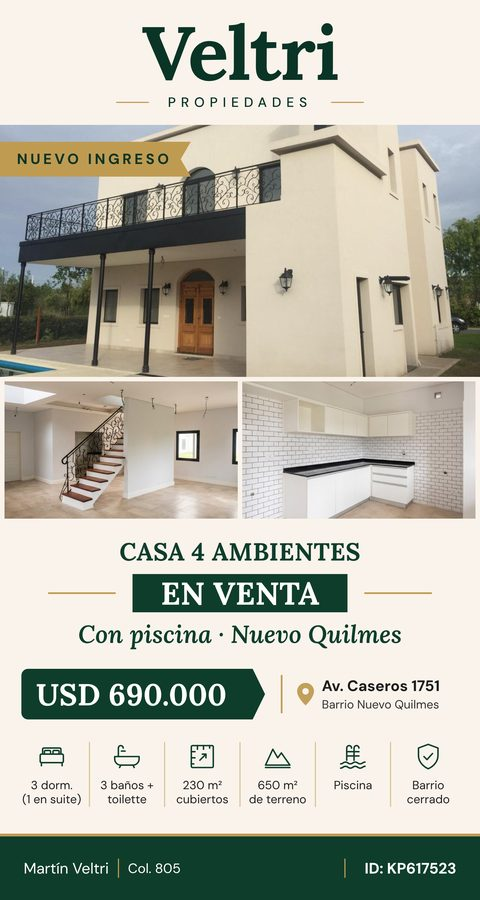
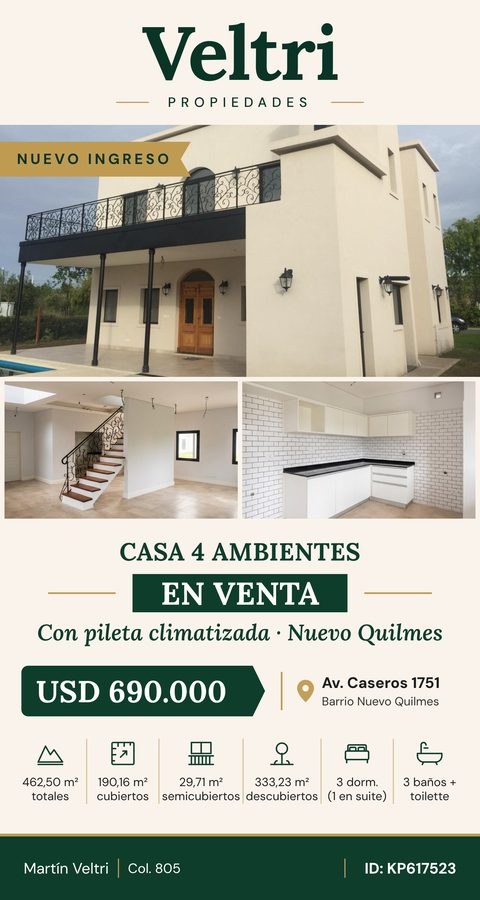
KP617504 y KP617523: superficies según plano y pileta climatizada
Claude-Session: https://claude.ai/code/session_01QVynf5azA7Q9ZAkayFiAjJ

Changed region(s): [[0.0312, 0.6844, 0.9375, 0.9022], [0.5312, 0.7467, 0.5625, 0.7778]]

diff --git a/index.html b/index.html
@@ -392,7 +392,7 @@ body.client .asisw{display:none}
     <a class="btn b4" id="fio" target="_blank" rel="noopener"><svg class="wa" viewBox="0 0 24 24"><path d="M12 2a10 10 0 0 0-8.6 15.1L2 22l5-1.3A10 10 0 1 0 12 2zm0 18.2a8.2 8.2 0 0 1-4.2-1.2l-.3-.2-3 .8.8-2.9-.2-.3A8.2 8.2 0 1 1 12 20.2zm4.5-6.1c-.2-.1-1.5-.7-1.7-.8-.2-.1-.4-.1-.6.1l-.8 1c-.1.2-.3.2-.5.1a6.7 6.7 0 0 1-3.3-2.9c-.2-.4.2-.4.7-1.3.1-.2 0-.3 0-.4l-.8-1.8c-.2-.5-.4-.4-.6-.4h-.5a1 1 0 0 0-.7.3 3 3 0 0 0-.9 2.2 5.2 5.2 0 0 0 1.1 2.8 11.9 11.9 0 0 0 4.6 4c1.7.7 2.4.8 3.2.7a2.8 2.8 0 0 0 1.8-1.3 2.3 2.3 0 0 0 .2-1.3c-.1-.1-.3-.2-.5-.3z"/></svg>Pedirle ajuste a Fiore</a>
   </div></div></div>
 <script>
-const qv=x=>x.v?'?v='+x.v:'';const D=[{"id": "KP609318", "titulo": "Departamento 2 Ambientes", "op": "Venta", "tipo": "Departamento", "precio": "USD 93.000", "dir": "Patricios 400, Bernal", "zona": "Torre B2 · Quilmes", "f": ["9.º piso", "1 dormitorio", "1 baño completo"], "n": 609318}, {"id": "KP606274", "titulo": "Triplex 3 Ambientes", "op": "Venta", "tipo": "Departamento", "precio": "USD 184.900", "dir": "Don Bosco 473, Bernal", "zona": "Barrio cerrado · Quilmes", "f": ["2 dormitorios", "2 baños completos", "1 toilette"], "n": 606274}, {"id": "KP606250", "titulo": "Casa 3 Ambientes", "op": "Venta", "tipo": "Casa", "precio": "USD 134.900", "dir": "Calle 19 al 5000", "zona": "Berazategui", "f": ["2 dormitorios", "1 baño completo", "130 m² cubiertos"], "n": 606250}, {"id": "KP605349", "titulo": "PH 3 Ambientes", "op": "Venta", "tipo": "PH", "precio": "USD 85.000", "dir": "Edmundo Fierro al 200", "zona": "Bernal Este · Quilmes", "f": ["2 dormitorios", "1 baño completo", "96 m² totales"], "n": 605349}, {"id": "KP599778", "titulo": "Galpón Industrial a Estrenar", "op": "Alquiler", "tipo": "Comercial", "precio": "USD 11.000", "dir": "Florencio Varela", "zona": "Parque Industrial PITEC 2", "f": ["1.882 m² cubiertos", "2.847 m² de terreno", "12 m altura libre"], "n": 599778}, {"id": "KP587604", "titulo": "Casa 4 Ambientes", "op": "Venta", "tipo": "Casa", "precio": "USD 95.000", "dir": "Viejo Bueno al 1400", "zona": "Bernal Oeste · Quilmes", "f": ["3 dormitorios", "1 baño completo", "164 m² totales"], "n": 587604}, {"id": "KP581763", "titulo": "PH 3 Ambientes", "op": "Venta", "tipo": "PH", "precio": "USD 93.000", "dir": "Rep. del Líbano al 1100", "zona": "Quilmes", "f": ["2 dormitorios", "1 baño completo", "122 m² cubiertos"], "n": 581763}, {"id": "KP574705", "titulo": "Casa 5 Ambientes", "op": "Venta", "tipo": "Casa", "precio": "USD 149.000", "dir": "Vta. de Obligado 555", "zona": "Bernal Este · Quilmes", "f": ["4 dormitorios", "2 baños", "183 m² totales"], "n": 574705}, {"id": "KP574696", "titulo": "Galpón Industrial a Estrenar", "op": "Venta", "tipo": "Comercial", "precio": "USD 1.800.000", "dir": "Florencio Varela", "zona": "Parque Industrial PITEC 2", "f": ["1.882 m² cubiertos", "2.847 m² de terreno", "12 m altura libre"], "n": 574696}, {"id": "KP574687", "titulo": "Oficina de 75 m²", "op": "Alquiler", "tipo": "Comercial", "precio": "USD 1.000", "dir": "Av. Caseros 1750", "zona": "Don Bosco · Quilmes", "f": ["2.º piso", "75 m² cubiertos", "3 espacios de trabajo"], "n": 574687}, {"id": "KP574442", "titulo": "Casa 4 Ambientes", "op": "Venta", "tipo": "Casa", "precio": "USD 262.000", "dir": "Dorrego 112", "zona": "Bernal · Quilmes", "f": ["3 dormitorios", "2 baños", "135 m² cubiertos"], "n": 574442}, {"id": "KP574362", "titulo": "Casa 3 Ambientes", "op": "Venta", "tipo": "Casa", "precio": "USD 139.000", "dir": "Urquiza 328", "zona": "Quilmes", "f": ["2 dormitorios", "1 baño completo", "75 m² cubiertos"], "n": 574362}, {"id": "KP574361", "titulo": "Galpón de 259 m²", "op": "Venta", "tipo": "Comercial", "precio": "USD 169.000", "dir": "Calle Carabelas", "zona": "Bernal · Quilmes", "f": ["259 m² cubiertos", "Doble frente", "Acceso para camiones"], "n": 574361}, {"id": "KP574360", "titulo": "6 Locales Comerciales en Bloque", "op": "Venta", "tipo": "Comercial", "precio": "USD 239.000", "dir": "Av. Gral. Mosconi 2270", "zona": "Esq. Ayolas · Quilmes Oeste", "f": ["6 locales independientes", "242 m² cubiertos", "Ubicación en esquina"], "n": 574360}, {"id": "KP574330", "titulo": "Casa 2 Ambientes", "op": "Venta", "tipo": "Casa", "precio": "USD 115.000", "dir": "9 de Julio 838", "zona": "Bernal Oeste · Quilmes", "f": ["1 dormitorio", "1 baño completo", "125 m² cubiertos"], "n": 574330}, {"id": "KP574305", "titulo": "Piso de Categoría · 4 Amb.", "op": "Venta", "tipo": "Departamento", "precio": "USD 299.000", "dir": "Moreno 336", "zona": "Quilmes Centro", "f": ["9.º piso", "3 dorm. (1 en suite)", "2 baños + toilette"], "n": 574305}, {"id": "KP574304", "titulo": "Casa 3 Ambientes", "op": "Alquiler", "tipo": "Casa", "precio": "USD 900", "dir": "Luis María Campos 529", "zona": "Bernal Oeste · Quilmes", "f": ["2 dormitorios", "1 baño completo", "Balcón al frente"], "n": 574304}, {"id": "KP574296", "titulo": "PH 3 Ambientes", "op": "Venta", "tipo": "PH", "precio": "USD 115.000", "dir": "Don Bosco 18", "zona": "Bernal · Quilmes", "f": ["2 dormitorios", "1 baño + toilette", "86 m² totales"], "n": 574296}, {"id": "KP574279", "titulo": "Departamento 3 Ambientes", "op": "Venta", "tipo": "Departamento", "precio": "USD 169.900", "dir": "Av. San Martín 364", "zona": "Bernal Centro · Quilmes", "f": ["2 dormitorios", "2 baños", "86 m² totales"], "n": 574279}, {"id": "KP574278", "titulo": "Departamento 2 Ambientes", "op": "Venta", "tipo": "Departamento", "precio": "USD 144.500", "dir": "25 de Mayo 50", "zona": "Bernal · Quilmes", "f": ["1 dormitorio", "48 m² totales", "Balcón al frente"], "n": 574278}, {"id": "KP574277", "titulo": "Piso de Categoría · 5 Amb.", "op": "Venta", "tipo": "Departamento", "precio": "USD 319.900", "dir": "Alem 420", "zona": "Quilmes Centro", "f": ["4 dorm. (1 en suite)", "4 baños + toilette", "190 m² cubiertos"], "n": 574277}, {"id": "KP574237", "titulo": "Casa / Lote R2", "op": "Venta", "tipo": "Casa", "precio": "USD 149.000", "dir": "Alvear 216", "zona": "Quilmes", "f": ["281 m² de terreno", "143 m² cubiertos", "Zonificación R2"], "n": 574237}, {"id": "KP574229", "titulo": "Casa 4 Ambientes", "op": "Venta", "tipo": "Casa", "precio": "USD 249.000", "dir": "Juan B. Justo 443", "zona": "Don Bosco · Quilmes", "f": ["3 dormitorios", "2 baños + toilette", "190 m² cubiertos"], "n": 574229}, {"id": "KP574217", "titulo": "Casa 3 Ambientes", "op": "Venta", "tipo": "Casa", "precio": "USD 129.000", "dir": "Saavedra 362", "zona": "Quilmes", "f": ["2 dormitorios", "1 baño completo", "90 m² cubiertos"], "n": 574217}, {"id": "KP573824", "titulo": "Departamento 2 Ambientes", "op": "Venta", "tipo": "Departamento", "precio": "USD 119.000", "dir": "Av. San Martín 364", "zona": "Bernal Centro · Quilmes", "f": ["1 dormitorio", "1 baño", "80 m² totales"], "n": 573824}, {"id": "KP573709", "titulo": "Casa 5 Ambientes", "op": "Alquiler", "tipo": "Casa", "precio": "USD 5.800", "dir": "Av. Caseros 1751", "zona": "Nuevo Quilmes", "f": ["4 dorm. (1 en suite)", "3 baños + toilette", "350 m² cubiertos"], "n": 573709}, {"id": "KP572830", "titulo": "Casa 4 Ambientes", "op": "Venta", "tipo": "Casa", "precio": "USD 320.000", "dir": "Almirante Brown 933", "zona": "Quilmes", "f": ["3 dormitorios", "2 baños", "200 m² cubiertos"], "n": 572830}, {"id": "KP572792", "titulo": "Departamento 3 Ambientes", "op": "Venta", "tipo": "Departamento", "precio": "USD 199.000", "dir": "25 de Mayo 62", "zona": "Bernal Centro · Quilmes", "f": ["2 dormitorios", "1 baño + toilette", "80 m² totales"], "n": 572792}, {"id": "KP572756", "titulo": "Departamento 3 Ambientes", "op": "Venta", "tipo": "Departamento", "precio": "USD 180.000", "dir": "Av. H. Yrigoyen 933", "zona": "6.º piso · Quilmes", "f": ["6.º piso", "2 dormitorios", "1 baño + toilette"], "n": 572756}, {"id": "KP572659", "titulo": "Galpón / Local / Depósito", "op": "Venta", "tipo": "Comercial", "precio": "USD 180.000", "dir": "E. Fierro al 200", "zona": "Bernal · Quilmes", "f": ["384 m² cubiertos", "486 m² totales", "Patio descubierto"], "n": 572659}, {"id": "KP572606", "titulo": "Departamento 3 Ambientes", "op": "Venta", "tipo": "Departamento", "precio": "USD 239.000", "dir": "Caseros y Carabelas", "zona": "Don Bosco · Quilmes", "f": ["2 dormitorios", "65 m² cubiertos", "Patio de 61 m²"], "n": 572606}, {"id": "KP572590", "titulo": "Departamento 3 Ambientes", "op": "Venta", "tipo": "Departamento", "precio": "USD 159.000", "dir": "Av. San Martín 364", "zona": "Bernal Centro · Quilmes", "f": ["7.º piso", "2 dormitorios", "2 baños"], "n": 572590}, {"id": "KP572501", "titulo": "Casa 5 Ambientes", "op": "Venta", "tipo": "Casa", "precio": "USD 1.350.000", "dir": "Av. Caseros 1751", "zona": "Nuevo Quilmes", "f": ["4 dorm. (1 en suite)", "3 baños + toilette", "350 m² cubiertos"], "n": 572501}, {"id": "KP572159", "titulo": "Casa 6 Ambientes", "op": "Venta", "tipo": "Casa", "precio": "USD 790.000", "dir": "Av. Caseros 1751", "zona": "Nuevo Quilmes", "f": ["4 dormitorios", "4 baños", "300 m² cubiertos"], "n": 572159}, {"id": "KP572114", "titulo": "Departamento 3 Ambientes", "op": "Venta", "tipo": "Departamento", "precio": "USD 310.000", "dir": "Av. Caseros 1751", "zona": "Nuevo Quilmes", "f": ["2 dormitorios", "2 baños", "84 m² totales"], "n": 572114}, {"id": "KP572108", "titulo": "Departamento 3 Ambientes", "op": "Venta", "tipo": "Departamento", "precio": "USD 205.000", "dir": "Don Bosco 31", "zona": "Bernal Centro · Quilmes", "f": ["2 dormitorios", "1 baño + toilette", "80 m² cubiertos"], "n": 572108}, {"id": "KP571775", "titulo": "Departamento 3 Ambientes", "op": "Venta", "tipo": "Departamento", "precio": "USD 174.900", "dir": "Av. San Martín 364", "zona": "Bernal · Quilmes", "f": ["2 dormitorios", "1 baño", "81 m² totales"], "n": 571775}, {"id": "KP617504", "titulo": "Casa 4 Ambientes", "op": "Alquiler", "tipo": "Casa", "precio": "USD 3.500", "dir": "Av. Caseros 1751", "zona": "Barrio Nuevo Quilmes", "f": ["3 dorm. (1 en suite)", "3 baños + toilette", "230 m² cubiertos"], "n": 617504, "v": 2}, {"id": "KP617523", "titulo": "Casa 4 Ambientes", "op": "Venta", "tipo": "Casa", "precio": "USD 690.000", "dir": "Av. Caseros 1751", "zona": "Barrio Nuevo Quilmes", "f": ["3 dorm. (1 en suite)", "3 baños + toilette", "230 m² cubiertos"], "n": 617523, "v": 2}];const $=s=>document.querySelector(s);
+const qv=x=>x.v?'?v='+x.v:'';const D=[{"id": "KP609318", "titulo": "Departamento 2 Ambientes", "op": "Venta", "tipo": "Departamento", "precio": "USD 93.000", "dir": "Patricios 400, Bernal", "zona": "Torre B2 · Quilmes", "f": ["9.º piso", "1 dormitorio", "1 baño completo"], "n": 609318}, {"id": "KP606274", "titulo": "Triplex 3 Ambientes", "op": "Venta", "tipo": "Departamento", "precio": "USD 184.900", "dir": "Don Bosco 473, Bernal", "zona": "Barrio cerrado · Quilmes", "f": ["2 dormitorios", "2 baños completos", "1 toilette"], "n": 606274}, {"id": "KP606250", "titulo": "Casa 3 Ambientes", "op": "Venta", "tipo": "Casa", "precio": "USD 134.900", "dir": "Calle 19 al 5000", "zona": "Berazategui", "f": ["2 dormitorios", "1 baño completo", "130 m² cubiertos"], "n": 606250}, {"id": "KP605349", "titulo": "PH 3 Ambientes", "op": "Venta", "tipo": "PH", "precio": "USD 85.000", "dir": "Edmundo Fierro al 200", "zona": "Bernal Este · Quilmes", "f": ["2 dormitorios", "1 baño completo", "96 m² totales"], "n": 605349}, {"id": "KP599778", "titulo": "Galpón Industrial a Estrenar", "op": "Alquiler", "tipo": "Comercial", "precio": "USD 11.000", "dir": "Florencio Varela", "zona": "Parque Industrial PITEC 2", "f": ["1.882 m² cubiertos", "2.847 m² de terreno", "12 m altura libre"], "n": 599778}, {"id": "KP587604", "titulo": "Casa 4 Ambientes", "op": "Venta", "tipo": "Casa", "precio": "USD 95.000", "dir": "Viejo Bueno al 1400", "zona": "Bernal Oeste · Quilmes", "f": ["3 dormitorios", "1 baño completo", "164 m² totales"], "n": 587604}, {"id": "KP581763", "titulo": "PH 3 Ambientes", "op": "Venta", "tipo": "PH", "precio": "USD 93.000", "dir": "Rep. del Líbano al 1100", "zona": "Quilmes", "f": ["2 dormitorios", "1 baño completo", "122 m² cubiertos"], "n": 581763}, {"id": "KP574705", "titulo": "Casa 5 Ambientes", "op": "Venta", "tipo": "Casa", "precio": "USD 149.000", "dir": "Vta. de Obligado 555", "zona": "Bernal Este · Quilmes", "f": ["4 dormitorios", "2 baños", "183 m² totales"], "n": 574705}, {"id": "KP574696", "titulo": "Galpón Industrial a Estrenar", "op": "Venta", "tipo": "Comercial", "precio": "USD 1.800.000", "dir": "Florencio Varela", "zona": "Parque Industrial PITEC 2", "f": ["1.882 m² cubiertos", "2.847 m² de terreno", "12 m altura libre"], "n": 574696}, {"id": "KP574687", "titulo": "Oficina de 75 m²", "op": "Alquiler", "tipo": "Comercial", "precio": "USD 1.000", "dir": "Av. Caseros 1750", "zona": "Don Bosco · Quilmes", "f": ["2.º piso", "75 m² cubiertos", "3 espacios de trabajo"], "n": 574687}, {"id": "KP574442", "titulo": "Casa 4 Ambientes", "op": "Venta", "tipo": "Casa", "precio": "USD 262.000", "dir": "Dorrego 112", "zona": "Bernal · Quilmes", "f": ["3 dormitorios", "2 baños", "135 m² cubiertos"], "n": 574442}, {"id": "KP574362", "titulo": "Casa 3 Ambientes", "op": "Venta", "tipo": "Casa", "precio": "USD 139.000", "dir": "Urquiza 328", "zona": "Quilmes", "f": ["2 dormitorios", "1 baño completo", "75 m² cubiertos"], "n": 574362}, {"id": "KP574361", "titulo": "Galpón de 259 m²", "op": "Venta", "tipo": "Comercial", "precio": "USD 169.000", "dir": "Calle Carabelas", "zona": "Bernal · Quilmes", "f": ["259 m² cubiertos", "Doble frente", "Acceso para camiones"], "n": 574361}, {"id": "KP574360", "titulo": "6 Locales Comerciales en Bloque", "op": "Venta", "tipo": "Comercial", "precio": "USD 239.000", "dir": "Av. Gral. Mosconi 2270", "zona": "Esq. Ayolas · Quilmes Oeste", "f": ["6 locales independientes", "242 m² cubiertos", "Ubicación en esquina"], "n": 574360}, {"id": "KP574330", "titulo": "Casa 2 Ambientes", "op": "Venta", "tipo": "Casa", "precio": "USD 115.000", "dir": "9 de Julio 838", "zona": "Bernal Oeste · Quilmes", "f": ["1 dormitorio", "1 baño completo", "125 m² cubiertos"], "n": 574330}, {"id": "KP574305", "titulo": "Piso de Categoría · 4 Amb.", "op": "Venta", "tipo": "Departamento", "precio": "USD 299.000", "dir": "Moreno 336", "zona": "Quilmes Centro", "f": ["9.º piso", "3 dorm. (1 en suite)", "2 baños + toilette"], "n": 574305}, {"id": "KP574304", "titulo": "Casa 3 Ambientes", "op": "Alquiler", "tipo": "Casa", "precio": "USD 900", "dir": "Luis María Campos 529", "zona": "Bernal Oeste · Quilmes", "f": ["2 dormitorios", "1 baño completo", "Balcón al frente"], "n": 574304}, {"id": "KP574296", "titulo": "PH 3 Ambientes", "op": "Venta", "tipo": "PH", "precio": "USD 115.000", "dir": "Don Bosco 18", "zona": "Bernal · Quilmes", "f": ["2 dormitorios", "1 baño + toilette", "86 m² totales"], "n": 574296}, {"id": "KP574279", "titulo": "Departamento 3 Ambientes", "op": "Venta", "tipo": "Departamento", "precio": "USD 169.900", "dir": "Av. San Martín 364", "zona": "Bernal Centro · Quilmes", "f": ["2 dormitorios", "2 baños", "86 m² totales"], "n": 574279}, {"id": "KP574278", "titulo": "Departamento 2 Ambientes", "op": "Venta", "tipo": "Departamento", "precio": "USD 144.500", "dir": "25 de Mayo 50", "zona": "Bernal · Quilmes", "f": ["1 dormitorio", "48 m² totales", "Balcón al frente"], "n": 574278}, {"id": "KP574277", "titulo": "Piso de Categoría · 5 Amb.", "op": "Venta", "tipo": "Departamento", "precio": "USD 319.900", "dir": "Alem 420", "zona": "Quilmes Centro", "f": ["4 dorm. (1 en suite)", "4 baños + toilette", "190 m² cubiertos"], "n": 574277}, {"id": "KP574237", "titulo": "Casa / Lote R2", "op": "Venta", "tipo": "Casa", "precio": "USD 149.000", "dir": "Alvear 216", "zona": "Quilmes", "f": ["281 m² de terreno", "143 m² cubiertos", "Zonificación R2"], "n": 574237}, {"id": "KP574229", "titulo": "Casa 4 Ambientes", "op": "Venta", "tipo": "Casa", "precio": "USD 249.000", "dir": "Juan B. Justo 443", "zona": "Don Bosco · Quilmes", "f": ["3 dormitorios", "2 baños + toilette", "190 m² cubiertos"], "n": 574229}, {"id": "KP574217", "titulo": "Casa 3 Ambientes", "op": "Venta", "tipo": "Casa", "precio": "USD 129.000", "dir": "Saavedra 362", "zona": "Quilmes", "f": ["2 dormitorios", "1 baño completo", "90 m² cubiertos"], "n": 574217}, {"id": "KP573824", "titulo": "Departamento 2 Ambientes", "op": "Venta", "tipo": "Departamento", "precio": "USD 119.000", "dir": "Av. San Martín 364", "zona": "Bernal Centro · Quilmes", "f": ["1 dormitorio", "1 baño", "80 m² totales"], "n": 573824}, {"id": "KP573709", "titulo": "Casa 5 Ambientes", "op": "Alquiler", "tipo": "Casa", "precio": "USD 5.800", "dir": "Av. Caseros 1751", "zona": "Nuevo Quilmes", "f": ["4 dorm. (1 en suite)", "3 baños + toilette", "350 m² cubiertos"], "n": 573709}, {"id": "KP572830", "titulo": "Casa 4 Ambientes", "op": "Venta", "tipo": "Casa", "precio": "USD 320.000", "dir": "Almirante Brown 933", "zona": "Quilmes", "f": ["3 dormitorios", "2 baños", "200 m² cubiertos"], "n": 572830}, {"id": "KP572792", "titulo": "Departamento 3 Ambientes", "op": "Venta", "tipo": "Departamento", "precio": "USD 199.000", "dir": "25 de Mayo 62", "zona": "Bernal Centro · Quilmes", "f": ["2 dormitorios", "1 baño + toilette", "80 m² totales"], "n": 572792}, {"id": "KP572756", "titulo": "Departamento 3 Ambientes", "op": "Venta", "tipo": "Departamento", "precio": "USD 180.000", "dir": "Av. H. Yrigoyen 933", "zona": "6.º piso · Quilmes", "f": ["6.º piso", "2 dormitorios", "1 baño + toilette"], "n": 572756}, {"id": "KP572659", "titulo": "Galpón / Local / Depósito", "op": "Venta", "tipo": "Comercial", "precio": "USD 180.000", "dir": "E. Fierro al 200", "zona": "Bernal · Quilmes", "f": ["384 m² cubiertos", "486 m² totales", "Patio descubierto"], "n": 572659}, {"id": "KP572606", "titulo": "Departamento 3 Ambientes", "op": "Venta", "tipo": "Departamento", "precio": "USD 239.000", "dir": "Caseros y Carabelas", "zona": "Don Bosco · Quilmes", "f": ["2 dormitorios", "65 m² cubiertos", "Patio de 61 m²"], "n": 572606}, {"id": "KP572590", "titulo": "Departamento 3 Ambientes", "op": "Venta", "tipo": "Departamento", "precio": "USD 159.000", "dir": "Av. San Martín 364", "zona": "Bernal Centro · Quilmes", "f": ["7.º piso", "2 dormitorios", "2 baños"], "n": 572590}, {"id": "KP572501", "titulo": "Casa 5 Ambientes", "op": "Venta", "tipo": "Casa", "precio": "USD 1.350.000", "dir": "Av. Caseros 1751", "zona": "Nuevo Quilmes", "f": ["4 dorm. (1 en suite)", "3 baños + toilette", "350 m² cubiertos"], "n": 572501}, {"id": "KP572159", "titulo": "Casa 6 Ambientes", "op": "Venta", "tipo": "Casa", "precio": "USD 790.000", "dir": "Av. Caseros 1751", "zona": "Nuevo Quilmes", "f": ["4 dormitorios", "4 baños", "300 m² cubiertos"], "n": 572159}, {"id": "KP572114", "titulo": "Departamento 3 Ambientes", "op": "Venta", "tipo": "Departamento", "precio": "USD 310.000", "dir": "Av. Caseros 1751", "zona": "Nuevo Quilmes", "f": ["2 dormitorios", "2 baños", "84 m² totales"], "n": 572114}, {"id": "KP572108", "titulo": "Departamento 3 Ambientes", "op": "Venta", "tipo": "Departamento", "precio": "USD 205.000", "dir": "Don Bosco 31", "zona": "Bernal Centro · Quilmes", "f": ["2 dormitorios", "1 baño + toilette", "80 m² cubiertos"], "n": 572108}, {"id": "KP571775", "titulo": "Departamento 3 Ambientes", "op": "Venta", "tipo": "Departamento", "precio": "USD 174.900", "dir": "Av. San Martín 364", "zona": "Bernal · Quilmes", "f": ["2 dormitorios", "1 baño", "81 m² totales"], "n": 571775}, {"id": "KP617504", "titulo": "Casa 4 Ambientes con pileta climatizada", "op": "Alquiler", "tipo": "Casa", "precio": "USD 3.500", "dir": "Av. Caseros 1751", "zona": "Barrio Nuevo Quilmes", "f": ["462,50 m² totales", "190,16 m² cubiertos", "3 dorm. (1 en suite)"], "n": 617504, "v": 3}, {"id": "KP617523", "titulo": "Casa 4 Ambientes con pileta climatizada", "op": "Venta", "tipo": "Casa", "precio": "USD 690.000", "dir": "Av. Caseros 1751", "zona": "Barrio Nuevo Quilmes", "f": ["462,50 m² totales", "190,16 m² cubiertos", "3 dorm. (1 en suite)"], "n": 617523, "v": 3}];const $=s=>document.querySelector(s);
 const norm=s=>s.normalize('NFD').replace(/[̀-ͯ]/g,'').toLowerCase();
 const newest=[...D].sort((a,b)=>b.n-a.n);const NEW=new Set(newest.slice(0,3).map(x=>x.id));
 const cnt=(k,v)=>D.filter(x=>x[k]===v).length;

diff --git a/sw.js b/sw.js
@@ -1,4 +1,4 @@
-const C='misflyers-v22';
+const C='misflyers-v23';
 self.addEventListener('install',e=>{self.skipWaiting()});
 self.addEventListener('activate',e=>{e.waitUntil(caches.keys().then(k=>Promise.all(k.filter(n=>n!==C).map(n=>caches.delete(n)))).then(()=>self.clients.claim()))});
 self.addEventListener('fetch',e=>{if(e.request.method!=='GET')return;
